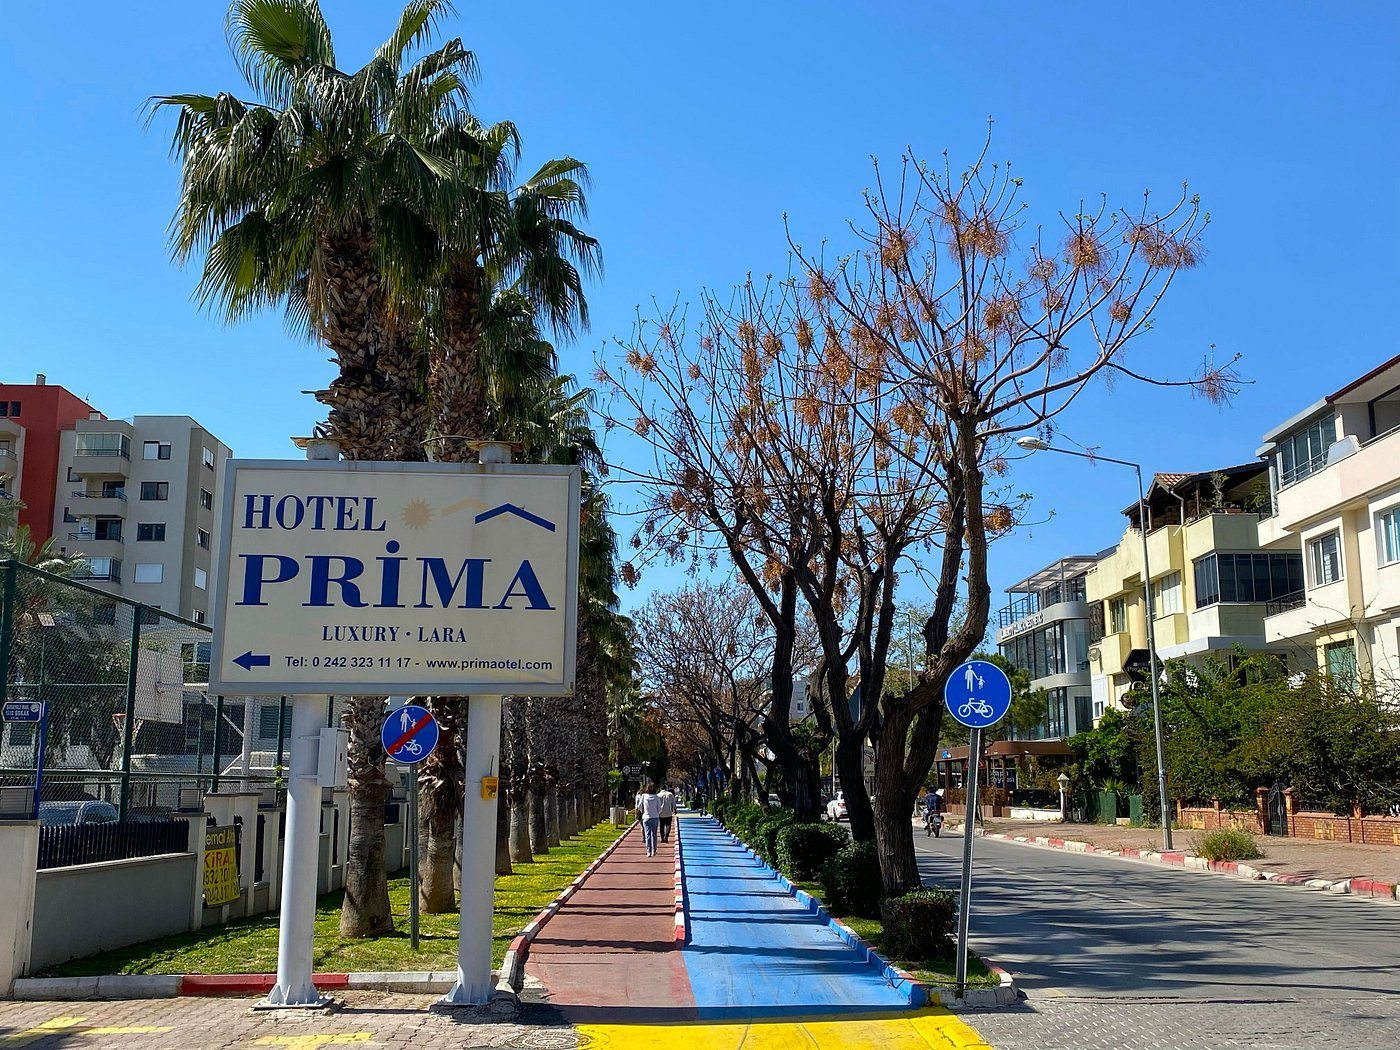
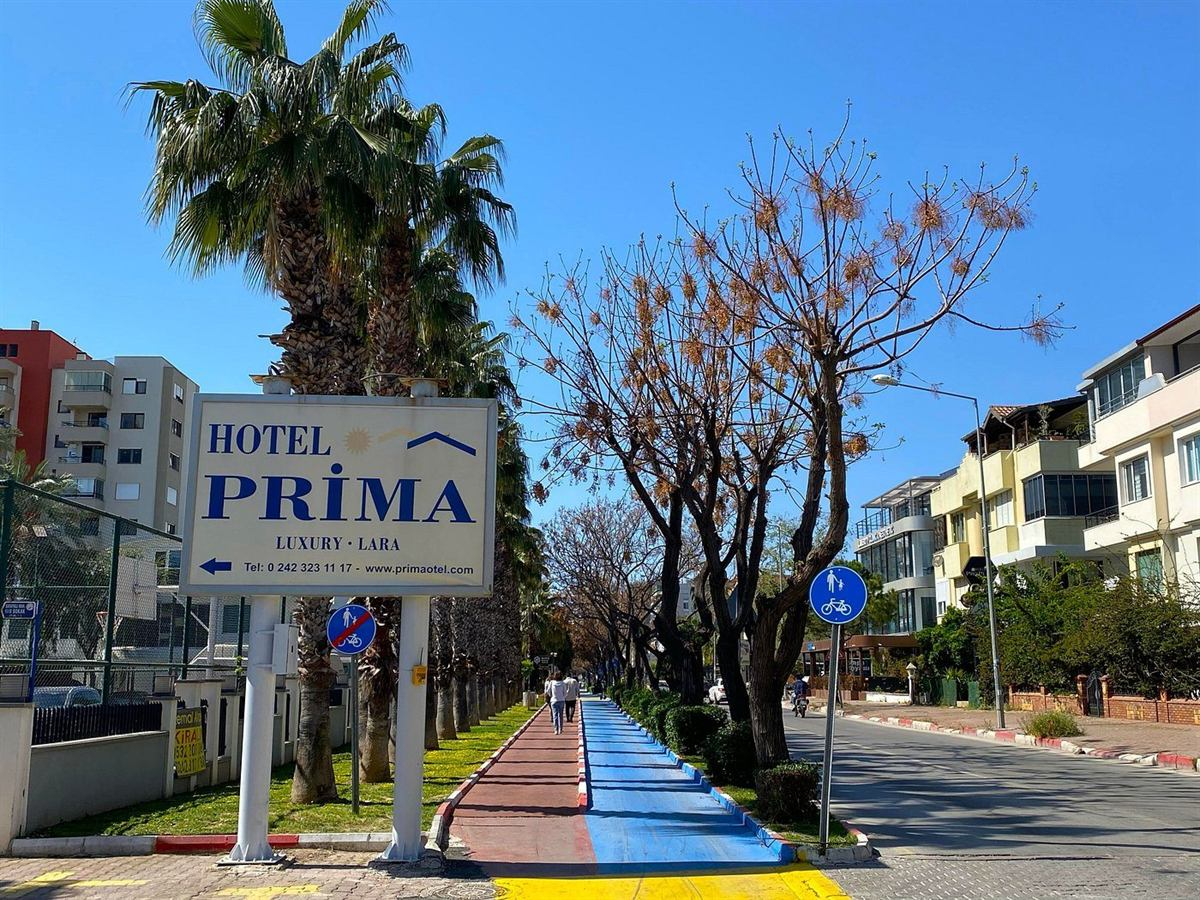
Mobile one-handed layout, SEO pass and Netlify deploy config
- Phone hero shows only the headline and one full-width call button;
  the floating call button appears after the hero button scrolls away
- All tap targets at least 48px; large form field defaults
- Per-language title, description, Open Graph, canonical and hreflang
- Hotel structured data (address, phone, geo, rooms, amenities)
- sitemap.xml and robots.txt; absolute URLs point to the Netlify site
- Images resized to 1200px and recompressed (about 7.2 MB to 4.0 MB)
- netlify.toml publishes the project root without a build step

diff --git a/ru.html b/ru.html
@@ -2,19 +2,65 @@
 <html lang="ru">
 <head>
 <meta charset="utf-8">
-<meta name="viewport" content="width=device-width, initial-scale=1">
-<title>Прима Отель Анталья · Лара</title>
-<meta name="description" content="«Прима Отель»: отель на 60 номеров в районе Лара, Анталья, в нескольких минутах ходьбы от моря. Хамам, сауна, крытый бассейн, ресторан и ВИП-трансфер.">
-<meta property="og:title" content="Прима Отель Анталья">
-<meta property="og:description" content="Номера с видом на море, хамам, сауна и крытый бассейн в Ларе.">
-<meta property="og:image" content="img/otel.jpg">
+<meta name="viewport" content="width=device-width, initial-scale=1, viewport-fit=cover">
+<title>Прима Отель Анталья | Отель с видом на море в Ларе</title>
+<meta name="description" content="Отель на 60 номеров в Ларе, Анталья, в 500 м от бухты Консерве. Номера с видом на море, хамам, сауна, крытый бассейн и ВИП-трансфер. Тел.: +90 242 323 11 17.">
+<link rel="canonical" href="https://prima-hotel-antalya.netlify.app/ru.html">
+<link rel="alternate" hreflang="tr" href="https://prima-hotel-antalya.netlify.app/">
+<link rel="alternate" hreflang="en" href="https://prima-hotel-antalya.netlify.app/en.html">
+<link rel="alternate" hreflang="ru" href="https://prima-hotel-antalya.netlify.app/ru.html">
+<link rel="alternate" hreflang="x-default" href="https://prima-hotel-antalya.netlify.app/">
+<meta name="theme-color" content="#12354d">
+<meta property="og:type" content="website">
+<meta property="og:site_name" content="Prima Hotel Antalya">
+<meta property="og:title" content="Прима Отель Анталья | Отель с видом на море в Ларе">
+<meta property="og:description" content="Отель на 60 номеров в Ларе, Анталья, в 500 м от бухты Консерве. Номера с видом на море, хамам, сауна, крытый бассейн и ВИП-трансфер. Тел.: +90 242 323 11 17.">
+<meta property="og:url" content="https://prima-hotel-antalya.netlify.app/ru.html">
+<meta property="og:image" content="https://prima-hotel-antalya.netlify.app/img/otel.jpg">
+<meta property="og:image:width" content="1574">
+<meta property="og:image:height" content="1536">
+<meta property="og:locale" content="ru_RU">
+<meta property="og:locale:alternate" content="tr_TR">
+<meta property="og:locale:alternate" content="en_US">
+<meta name="twitter:card" content="summary_large_image">
+<link rel="preload" as="image" href="img/otel.jpg">
+<script type="application/ld+json">
+{
+  "@context": "https://schema.org",
+  "@type": "Hotel",
+  "name": "Прима Отель Анталья",
+  "alternateName": "Prima Hotel Antalya",
+  "description": "Отель на 60 номеров в Ларе, Анталья: номера с видом на море, хамам, сауна, крытый бассейн, ресторан и ВИП-трансфер.",
+  "url": "https://prima-hotel-antalya.netlify.app/ru.html",
+  "inLanguage": "ru",
+  "image": ["https://prima-hotel-antalya.netlify.app/img/otel.jpg", "https://prima-hotel-antalya.netlify.app/img/deniz-manzarasi.jpg", "https://prima-hotel-antalya.netlify.app/img/kapali-havuz.jpg"],
+  "telephone": "+90 242 323 11 17",
+  "numberOfRooms": 60,
+  "address": {
+    "@type": "PostalAddress",
+    "streetAddress": "Şirinyalı Mah. 1512. Sk. No:7",
+    "addressLocality": "Muratpaşa",
+    "addressRegion": "Antalya",
+    "postalCode": "07160",
+    "addressCountry": "TR"
+  },
+  "geo": { "@type": "GeoCoordinates", "latitude": 36.855788, "longitude": 30.742263 },
+  "hasMap": "https://www.google.com/maps?q=36.855788,30.742263",
+  "amenityFeature": [
+    { "@type": "LocationFeatureSpecification", "name": "Turkish bath (hamam)", "value": true },
+    { "@type": "LocationFeatureSpecification", "name": "Sauna", "value": true },
+    { "@type": "LocationFeatureSpecification", "name": "Indoor pool", "value": true },
+    { "@type": "LocationFeatureSpecification", "name": "Restaurant", "value": true },
+    { "@type": "LocationFeatureSpecification", "name": "Free Wi-Fi in common areas", "value": true },
+    { "@type": "LocationFeatureSpecification", "name": "Parking", "value": true },
+    { "@type": "LocationFeatureSpecification", "name": "VIP airport transfer", "value": true }
+  ]
+}
+</script>
 <link rel="preconnect" href="https://fonts.googleapis.com">
 <link rel="preconnect" href="https://fonts.gstatic.com" crossorigin>
 <link href="https://fonts.googleapis.com/css2?family=Cormorant+Garamond:ital,wght@0,500;0,600;1,500&family=Manrope:wght@400;500;600;700&display=swap" rel="stylesheet">
 <link rel="stylesheet" href="styles.css">
-<link rel="alternate" hreflang="tr" href="index.html">
-<link rel="alternate" hreflang="en" href="en.html">
-<link rel="alternate" hreflang="ru" href="ru.html">
 </head>
 <body>
 

diff --git a/en.html b/en.html
@@ -2,19 +2,65 @@
 <html lang="en">
 <head>
 <meta charset="utf-8">
-<meta name="viewport" content="width=device-width, initial-scale=1">
-<title>Prima Hotel Antalya · Lara</title>
-<meta name="description" content="Prima Hotel, a 60-room hotel in Lara, Antalya, within walking distance of the sea. Turkish bath, sauna, indoor pool, restaurant and VIP transfer.">
-<meta property="og:title" content="Prima Hotel Antalya">
-<meta property="og:description" content="Sea-view rooms, Turkish bath, sauna and indoor pool in Lara, Antalya.">
-<meta property="og:image" content="img/otel.jpg">
+<meta name="viewport" content="width=device-width, initial-scale=1, viewport-fit=cover">
+<title>Prima Hotel Antalya | Sea-View Hotel in Lara</title>
+<meta name="description" content="60-room hotel in Lara, Antalya, 500 m from Konserve Bay. Sea-view rooms, Turkish bath, sauna, indoor pool and VIP transfer. Call +90 242 323 11 17.">
+<link rel="canonical" href="https://prima-hotel-antalya.netlify.app/en.html">
+<link rel="alternate" hreflang="tr" href="https://prima-hotel-antalya.netlify.app/">
+<link rel="alternate" hreflang="en" href="https://prima-hotel-antalya.netlify.app/en.html">
+<link rel="alternate" hreflang="ru" href="https://prima-hotel-antalya.netlify.app/ru.html">
+<link rel="alternate" hreflang="x-default" href="https://prima-hotel-antalya.netlify.app/">
+<meta name="theme-color" content="#12354d">
+<meta property="og:type" content="website">
+<meta property="og:site_name" content="Prima Hotel Antalya">
+<meta property="og:title" content="Prima Hotel Antalya | Sea-View Hotel in Lara">
+<meta property="og:description" content="60-room hotel in Lara, Antalya, 500 m from Konserve Bay. Sea-view rooms, Turkish bath, sauna, indoor pool and VIP transfer. Call +90 242 323 11 17.">
+<meta property="og:url" content="https://prima-hotel-antalya.netlify.app/en.html">
+<meta property="og:image" content="https://prima-hotel-antalya.netlify.app/img/otel.jpg">
+<meta property="og:image:width" content="1574">
+<meta property="og:image:height" content="1536">
+<meta property="og:locale" content="en_US">
+<meta property="og:locale:alternate" content="tr_TR">
+<meta property="og:locale:alternate" content="ru_RU">
+<meta name="twitter:card" content="summary_large_image">
+<link rel="preload" as="image" href="img/otel.jpg">
+<script type="application/ld+json">
+{
+  "@context": "https://schema.org",
+  "@type": "Hotel",
+  "name": "Prima Hotel Antalya",
+  "alternateName": "Prima Hotel Antalya",
+  "description": "60-room hotel in Lara, Antalya with sea-view rooms, Turkish bath, sauna, indoor pool, restaurant and VIP transfer.",
+  "url": "https://prima-hotel-antalya.netlify.app/en.html",
+  "inLanguage": "en",
+  "image": ["https://prima-hotel-antalya.netlify.app/img/otel.jpg", "https://prima-hotel-antalya.netlify.app/img/deniz-manzarasi.jpg", "https://prima-hotel-antalya.netlify.app/img/kapali-havuz.jpg"],
+  "telephone": "+90 242 323 11 17",
+  "numberOfRooms": 60,
+  "address": {
+    "@type": "PostalAddress",
+    "streetAddress": "Şirinyalı Mah. 1512. Sk. No:7",
+    "addressLocality": "Muratpaşa",
+    "addressRegion": "Antalya",
+    "postalCode": "07160",
+    "addressCountry": "TR"
+  },
+  "geo": { "@type": "GeoCoordinates", "latitude": 36.855788, "longitude": 30.742263 },
+  "hasMap": "https://www.google.com/maps?q=36.855788,30.742263",
+  "amenityFeature": [
+    { "@type": "LocationFeatureSpecification", "name": "Turkish bath (hamam)", "value": true },
+    { "@type": "LocationFeatureSpecification", "name": "Sauna", "value": true },
+    { "@type": "LocationFeatureSpecification", "name": "Indoor pool", "value": true },
+    { "@type": "LocationFeatureSpecification", "name": "Restaurant", "value": true },
+    { "@type": "LocationFeatureSpecification", "name": "Free Wi-Fi in common areas", "value": true },
+    { "@type": "LocationFeatureSpecification", "name": "Parking", "value": true },
+    { "@type": "LocationFeatureSpecification", "name": "VIP airport transfer", "value": true }
+  ]
+}
+</script>
 <link rel="preconnect" href="https://fonts.googleapis.com">
 <link rel="preconnect" href="https://fonts.gstatic.com" crossorigin>
 <link href="https://fonts.googleapis.com/css2?family=Cormorant+Garamond:ital,wght@0,500;0,600;1,500&family=Manrope:wght@400;500;600;700&display=swap" rel="stylesheet">
 <link rel="stylesheet" href="styles.css">
-<link rel="alternate" hreflang="tr" href="index.html">
-<link rel="alternate" hreflang="en" href="en.html">
-<link rel="alternate" hreflang="ru" href="ru.html">
 </head>
 <body>
 

diff --git a/index.html b/index.html
@@ -2,19 +2,65 @@
 <html lang="tr">
 <head>
 <meta charset="utf-8">
-<meta name="viewport" content="width=device-width, initial-scale=1">
-<title>Prima Hotel Antalya · Lara</title>
-<meta name="description" content="Antalya Lara'da, denize yürüme mesafesinde 60 odalı Prima Hotel. Hamam, sauna, kapalı havuz, restoran ve VIP transfer.">
-<meta property="og:title" content="Prima Hotel Antalya">
-<meta property="og:description" content="Lara'da deniz manzaralı odalar, hamam, sauna ve kapalı havuz.">
-<meta property="og:image" content="img/otel.jpg">
+<meta name="viewport" content="width=device-width, initial-scale=1, viewport-fit=cover">
+<title>Prima Hotel Antalya | Lara'da Deniz Manzaralı Otel</title>
+<meta name="description" content="Antalya Lara'da, Konserve Koyu'na 500 m mesafede 60 odalı otel. Deniz manzaralı odalar, hamam, sauna, kapalı havuz ve VIP transfer. Tel: 0 242 323 11 17">
+<link rel="canonical" href="https://prima-hotel-antalya.netlify.app/">
+<link rel="alternate" hreflang="tr" href="https://prima-hotel-antalya.netlify.app/">
+<link rel="alternate" hreflang="en" href="https://prima-hotel-antalya.netlify.app/en.html">
+<link rel="alternate" hreflang="ru" href="https://prima-hotel-antalya.netlify.app/ru.html">
+<link rel="alternate" hreflang="x-default" href="https://prima-hotel-antalya.netlify.app/">
+<meta name="theme-color" content="#12354d">
+<meta property="og:type" content="website">
+<meta property="og:site_name" content="Prima Hotel Antalya">
+<meta property="og:title" content="Prima Hotel Antalya | Lara'da Deniz Manzaralı Otel">
+<meta property="og:description" content="Antalya Lara'da, Konserve Koyu'na 500 m mesafede 60 odalı otel. Deniz manzaralı odalar, hamam, sauna, kapalı havuz ve VIP transfer. Tel: 0 242 323 11 17">
+<meta property="og:url" content="https://prima-hotel-antalya.netlify.app/">
+<meta property="og:image" content="https://prima-hotel-antalya.netlify.app/img/otel.jpg">
+<meta property="og:image:width" content="1574">
+<meta property="og:image:height" content="1536">
+<meta property="og:locale" content="tr_TR">
+<meta property="og:locale:alternate" content="en_US">
+<meta property="og:locale:alternate" content="ru_RU">
+<meta name="twitter:card" content="summary_large_image">
+<link rel="preload" as="image" href="img/otel.jpg">
+<script type="application/ld+json">
+{
+  "@context": "https://schema.org",
+  "@type": "Hotel",
+  "name": "Prima Hotel Antalya",
+  "alternateName": "Prima Hotel Antalya",
+  "description": "Antalya Lara'da 60 odalı otel: deniz manzaralı odalar, hamam, sauna, kapalı havuz, restoran ve VIP transfer.",
+  "url": "https://prima-hotel-antalya.netlify.app/",
+  "inLanguage": "tr",
+  "image": ["https://prima-hotel-antalya.netlify.app/img/otel.jpg", "https://prima-hotel-antalya.netlify.app/img/deniz-manzarasi.jpg", "https://prima-hotel-antalya.netlify.app/img/kapali-havuz.jpg"],
+  "telephone": "+90 242 323 11 17",
+  "numberOfRooms": 60,
+  "address": {
+    "@type": "PostalAddress",
+    "streetAddress": "Şirinyalı Mah. 1512. Sk. No:7",
+    "addressLocality": "Muratpaşa",
+    "addressRegion": "Antalya",
+    "postalCode": "07160",
+    "addressCountry": "TR"
+  },
+  "geo": { "@type": "GeoCoordinates", "latitude": 36.855788, "longitude": 30.742263 },
+  "hasMap": "https://www.google.com/maps?q=36.855788,30.742263",
+  "amenityFeature": [
+    { "@type": "LocationFeatureSpecification", "name": "Turkish bath (hamam)", "value": true },
+    { "@type": "LocationFeatureSpecification", "name": "Sauna", "value": true },
+    { "@type": "LocationFeatureSpecification", "name": "Indoor pool", "value": true },
+    { "@type": "LocationFeatureSpecification", "name": "Restaurant", "value": true },
+    { "@type": "LocationFeatureSpecification", "name": "Free Wi-Fi in common areas", "value": true },
+    { "@type": "LocationFeatureSpecification", "name": "Parking", "value": true },
+    { "@type": "LocationFeatureSpecification", "name": "VIP airport transfer", "value": true }
+  ]
+}
+</script>
 <link rel="preconnect" href="https://fonts.googleapis.com">
 <link rel="preconnect" href="https://fonts.gstatic.com" crossorigin>
 <link href="https://fonts.googleapis.com/css2?family=Cormorant+Garamond:ital,wght@0,500;0,600;1,500&family=Manrope:wght@400;500;600;700&display=swap" rel="stylesheet">
 <link rel="stylesheet" href="styles.css">
-<link rel="alternate" hreflang="tr" href="index.html">
-<link rel="alternate" hreflang="en" href="en.html">
-<link rel="alternate" hreflang="ru" href="ru.html">
 </head>
 <body>
 

diff --git a/styles.css b/styles.css
@@ -229,3 +229,29 @@ footer a:hover{color:var(--gold-soft)}
   .cta{padding:calc(var(--pano-h) + 48px) 0 72px;align-items:flex-start}
   .cta::after{background:linear-gradient(180deg,rgba(11,36,54,.08) 0,rgba(11,36,54,.08) var(--pano-h),var(--sea-deep) var(--pano-h),var(--sea-deep) 100%)}
 }
+
+/* Touch targets: every tappable control is at least 48px */
+.btn{min-height:48px}
+.menu-btn{min-width:48px;min-height:48px;align-items:center;justify-content:center}
+/* Form fields (none on the page yet): large, and 16px text so phones don't zoom in */
+input,select,textarea{font:inherit;font-size:1rem;width:100%;min-height:52px;padding:14px 16px;border:1px solid var(--line);border-radius:10px;background:#fff;color:var(--ink)}
+textarea{min-height:140px}
+
+@media (max-width: 960px){
+  .menu-btn{display:inline-flex}
+  /* Floating call button waits until the hero call button has scrolled away, so only one call action shows at a time */
+  .js .call-fab{transition:opacity .3s, transform .3s}
+  .js .call-fab:not(.show){opacity:0;transform:translateY(16px);pointer-events:none}
+}
+
+/* One-handed phone layout */
+@media (max-width: 640px){
+  .hero{padding-bottom:max(28px, env(safe-area-inset-bottom))}
+  .hero h1{font-size:clamp(2.7rem,12.5vw,3.6rem);margin-bottom:28px}
+  .hero p,.hero .btn-ghost{display:none}
+  .hero-ctas .btn,.cta .btn{width:100%;min-height:56px;font-size:1rem}
+  .lang a{display:inline-flex;align-items:center;justify-content:center;min-width:48px;min-height:48px;padding:0}
+  footer a{display:inline-flex;align-items:center;min-height:48px}
+  footer p{margin:0}
+  .call-fab{right:max(16px, env(safe-area-inset-right));bottom:max(16px, env(safe-area-inset-bottom))}
+}

diff --git a/main.js b/main.js
@@ -60,3 +60,12 @@ document.addEventListener('keydown', e => {
   if (e.key === 'ArrowLeft') show(idx - 1);
   if (e.key === 'ArrowRight') show(idx + 1);
 });
+
+// Floating call button: show only after the hero call button leaves the screen
+const fab = document.querySelector('.call-fab');
+const heroCall = document.querySelector('.hero .btn-gold');
+if (fab && heroCall && 'IntersectionObserver' in window) {
+  new IntersectionObserver(([e]) => fab.classList.toggle('show', !e.isIntersecting)).observe(heroCall);
+} else if (fab) {
+  fab.classList.add('show');
+}
